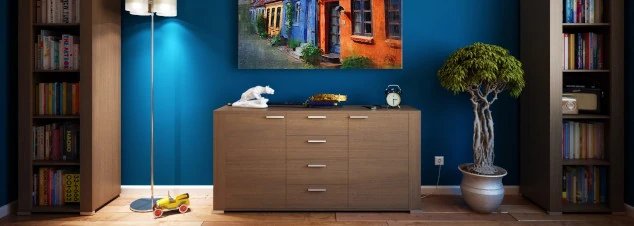
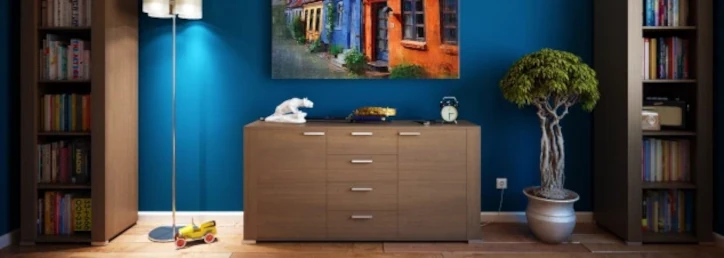
up

diff --git a/index.html b/index.html
@@ -49,21 +49,21 @@
         <div class="carousel slide carousel-fade" data-bs-pause="false" data-bs-ride="carousel">
             <div class="carousel-inner">
                 <div class="carousel-item active">
-                    <img src="./images/header.webp" alt="Furniture layout 1" />
+                    <img src="./images/header.webp" width="724" height="258" alt="Furniture layout 1" />
                     <p class="d-flex justify-content-between align-items-center p-2 p-sm-4 mb-0">
                         Lorem Ipsum
                         <button type="button" >lorem</button>
                     </p>
                 </div>
                 <div class="carousel-item">
-                    <img src="./images/header2.webp" alt="Furniture layout 2" />
+                    <img src="./images/header2.webp" width="724" height="258" alt="Furniture layout 2" />
                     <p class="d-flex justify-content-between align-items-center p-2 p-sm-4 mb-0">
                         Sit amet
                         <button type="button" >lorem</button>
                     </p>
                 </div>
                 <div class="carousel-item">
-                    <img src="./images/header3.webp" alt="Furniture layout 3" />
+                    <img src="./images/header3.webp" width="724" height="258" alt="Furniture layout 3" />
                     <p class="d-flex justify-content-between align-items-center p-2 p-sm-4 mb-0">
                         Nam et varius
                         <button type="button" >lorem</button>
@@ -83,10 +83,10 @@
                 Duis aute irure dolor in reprehenderit in voluptate velit esse cillum dolore eu fugiat nulla pariatur.
                 Excepteur sint occaecat cupidatat</p>
             <div class="row justify-content-center align-items-center mb-3  g-0">
-                <a class="col-6 col-sm-3 col-lg-2" href="#"><img src="./images/transport.webp" alt="transport" /></a>
-                <a class="col-6 col-sm-3 col-lg-2" href="#"><img src="./images/warehouse.webp" alt="warehouse" /></a>
-                <a class="col-6 col-sm-3 col-lg-2" href="#"><img src="./images/wood.webp" alt="wood" /></a>
-                <a class="col-6 col-sm-3 col-lg-2" href="#"><img src="./images/finance.webp" alt="finance" /></a>
+                <a class="col-6 col-sm-3 col-lg-2" href="#"><img width="150" height="120"  src="./images/transport.webp" alt="transport" /></a>
+                <a class="col-6 col-sm-3 col-lg-2" href="#"><img width="150" height="150" src="./images/warehouse.webp" alt="warehouse" /></a>
+                <a class="col-6 col-sm-3 col-lg-2" href="#"><img width="150" height="100" src="./images/wood.webp" alt="wood" /></a>
+                <a class="col-6 col-sm-3 col-lg-2" href="#"><img width="150" height="150"  src="./images/finance.webp" alt="finance" /></a>
             </div>
 
         </section>
@@ -102,15 +102,15 @@
             <div class="m-3 m-md-0 text-end text-xxl-start">
 
                 <span>
-                    <img src="./images/chairs.webp" alt="chairs" >
+                    <img width="600" height="400"  src="./images/chairs.webp" alt="chairs" >
                     <a href="#"><p>Dolore<span>consectetur adipiscing<i class="fa-solid fa-plus"></i></span></p></a>
                 </span>
                 <span>
-                    <img  src="./images/kitchen.webp" alt="kitchen" >
+                    <img width="600" height="400"   src="./images/kitchen.webp" alt="kitchen" >
                     <a href="#"><p>Dolore<span>consectetur adipiscing<i class="fa-solid fa-shield-halved"></i></span></p></a>
                 </span>
                 <span>
-                    <img  src="./images/living-room.webp" alt="living room" >
+                    <img width="600" height="400"  src="./images/living-room.webp" alt="living room" >
                     <a href="#"><p>Dolore<span>consectetur adipiscing<i class="fa-solid fa-check"></i></span></p></a>
                 </span>
 

diff --git a/css/app.css b/css/app.css
@@ -1,6 +1,7 @@
 @font-face {
   font-family: Poppins;
   src: url(./Poppins-Regular.ttf);
+  font-display: swap;
 }
 nav {
   background-color: #064D46;
@@ -168,6 +169,7 @@ nav ul li:nth-child(1), nav ul li:nth-child(2) {
 }
 #header img {
   width: 100%;
+  height: 100%;
   margin: auto;
   border-top-right-radius: 2px;
   border-top-left-radius: 2px;
@@ -232,7 +234,8 @@ main section:nth-child(1) p {
   color: #535964;
 }
 main section:nth-child(1) img {
-  width: 45%;
+  width: 48%;
+  height: 100%;
 }
 main section:nth-child(2) {
   position: relative;

diff --git a/scss/template/_main.scss b/scss/template/_main.scss
@@ -4,7 +4,8 @@ main {
             color: $c6;
         }
         img {
-            width: 45%;
+            width: 48%;
+            height: 100%;
         }
     }
     section:nth-child(2) {

diff --git a/scss/template/_head.scss b/scss/template/_head.scss
@@ -141,6 +141,7 @@ nav {
     }
     img {
         width: 100%;
+        height: 100%;
         margin: auto;
         border-top-right-radius: 2px;
         border-top-left-radius: 2px;

diff --git a/scss/_variables.scss b/scss/_variables.scss
@@ -8,6 +8,7 @@ $c6: #535964;
 @font-face {
     font-family: Poppins;
     src: url(./Poppins-Regular.ttf);
+    font-display: swap;
   }
 
   @import "template/head";
